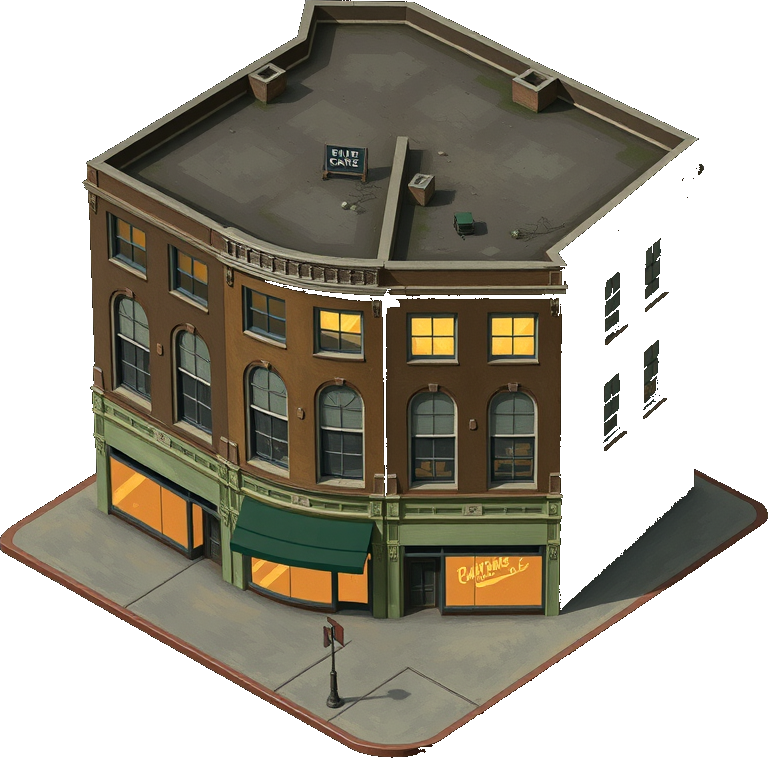
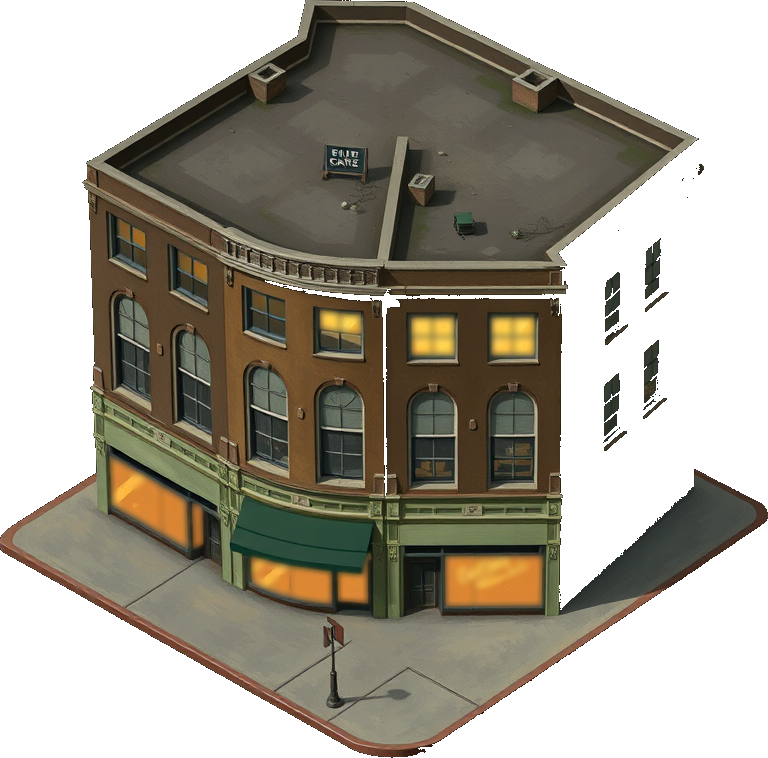
Paint the junctions, and withdraw a claim about the signs
Crossings and stop lines at every junction, laid from the block grid so
they line up with the kerbs by construction.

The last iteration said the garbled sign the user named was gone. True
of the Monarch's marquee, false of the city: the six fillers and four
corner blocks carry their own invented signage, repeated across sixty
slots, so there was more wrong text than before. The aimed filter has
been run over those ten now.

That is still not the whole truth. The Monarch's rooftop billboard reads
CIICATC and the filter cannot touch it — pale paint on dark green falls
under every threshold that stops it eating windows. Two claims about
this being fixed have been wrong, so the honest statement is that the
signage problem is not solved, only the loudest examples softened.

A suspected caching bug was chased and disproved: the served file hashes
byte-identical to disk. What was on screen was another building's sign.

Claude-Session: https://claude.ai/code/session_012sa7BWcwEVZMW3XoMqHfGF

diff --git a/src/CityIso.tsx b/src/CityIso.tsx
@@ -2,7 +2,7 @@ import {useEffect, useRef} from 'react';
 import {Application, Assets, Container, Graphics, Sprite, Text, Texture, TextStyle} from 'pixi.js';
 import {Viewport} from 'pixi-viewport';
 import type {Snapshot} from './types';
-import {addressSlot, along, blockFor, BLOCK, bounds, carriageways, distance, dressing, faces, fillerShape, grid, island, kerbside, lampPosts, middle, mix, nightness, PAVE, plot, project, ROAD, size, terrace, TILE, walk, wires} from './iso';
+import {addressSlot, along, blockFor, BLOCK, bounds, carriageways, distance, dressing, faces, fillerShape, grid, island, kerbside, lampPosts, markings, middle, mix, nightness, PAVE, plot, project, ROAD, size, terrace, TILE, walk, wires} from './iso';
 import type {Cell, Vec} from './iso';
 import cutouts from '../public/art/iso/isometric.json';
 import type {Spotlight} from './CityStreet';
@@ -436,7 +436,44 @@ export function CityIso({state, selected, onSelect, onEnter, spotlight}: {
       }
     }
     paint.stroke({width: 1.3, color: 0x6d6a52, alpha: .35});
-    layer.addChild(paint);
+
+    // The paint at the junctions: the bars of a crossing and the line a car
+    // waits behind. Laid from the same grid as the kerbs, so it lines up by
+    // construction rather than by being nudged into place.
+    const road_paint = new Graphics();
+    for (const mark of markings(size)) {
+      const across = {x: -mark.along.y, y: mark.along.x};   // square to the street
+      if (mark.kind === 'crossing') {
+        const bars = 5;
+        for (let i = 0; i < bars; i++) {
+          const t = (i + .5) / bars - .5;
+          const centre = {
+            x: mark.at.x + across.x * t * mark.width * .82,
+            y: mark.at.y + across.y * t * mark.width * .82,
+          };
+          const half = .085, long = .30;
+          const corners = [
+            {x: centre.x - across.x * half - mark.along.x * long, y: centre.y - across.y * half - mark.along.y * long},
+            {x: centre.x + across.x * half - mark.along.x * long, y: centre.y + across.y * half - mark.along.y * long},
+            {x: centre.x + across.x * half + mark.along.x * long, y: centre.y + across.y * half + mark.along.y * long},
+            {x: centre.x - across.x * half + mark.along.x * long, y: centre.y - across.y * half + mark.along.y * long},
+          ].map(project);
+          road_paint.poly(corners.flatMap(c => [c.x, c.y]));
+        }
+      } else {
+        const half = mark.width * .44, thick = .05;
+        const corners = [
+          {x: mark.at.x - across.x * half - mark.along.x * thick, y: mark.at.y - across.y * half - mark.along.y * thick},
+          {x: mark.at.x + across.x * half - mark.along.x * thick, y: mark.at.y + across.y * half - mark.along.y * thick},
+          {x: mark.at.x + across.x * half + mark.along.x * thick, y: mark.at.y + across.y * half + mark.along.y * thick},
+          {x: mark.at.x - across.x * half + mark.along.x * thick, y: mark.at.y - across.y * half + mark.along.y * thick},
+        ].map(project);
+        road_paint.poly(corners.flatMap(c => [c.x, c.y]));
+      }
+    }
+    // Worn paint, not fresh: it has been on the road a while.
+    road_paint.fill({color: mix(0xd8d2b8, 0x9a957f, .35 + dark * .3), alpha: .34});
+    layer.addChild(paint, road_paint);
 
     // The lamps, at every corner of every block, and the pools they throw.
     const glow = new Graphics();

diff --git a/src/iso.ts b/src/iso.ts
@@ -514,3 +514,39 @@ export function terrace(cell: Cell, slots = 3): Slot[] {
 // Which slot an address takes: the middle of the near row, so the building the
 // player came to see faces the street and is never hidden behind another.
 export const addressSlot = (slots = 3) => Math.floor(slots / 2);
+
+// ---------------------------------------------------------------------------
+// What is painted on the road.
+//
+// An empty carriageway with a dashed centre line is a diagram of a road. What
+// makes it a street is the paint at the junctions: the bars of a crossing, the
+// stop line a car waits behind. All of it is laid on the grid, so it lines up
+// with the kerbs by construction rather than by being nudged.
+
+export type Marking = {kind: 'crossing' | 'stop'; at: Vec; along: Vec; width: number};
+
+// Crossings go across the carriageway on the approach to a junction, and stop
+// lines sit just behind them. Both are placed from the block grid, so every
+// junction in the city is marked the same way.
+export function markings({cols, rows}: {cols: number; rows: number}): Marking[] {
+  const out: Marking[] = [];
+  const back = ROAD * .62;                    // how far from the centre of the junction
+  for (let col = 0; col <= cols; col++) {
+    for (let row = 0; row <= rows; row++) {
+      const x = col * BLOCK, y = row * BLOCK;
+      // Only where two carriageways actually meet.
+      const hasEast = col < cols, hasSouth = row < rows;
+      if (hasSouth) {
+        // Crossing the north-south street, on the south side of the junction.
+        out.push({kind: 'crossing', at: {x, y: y + back}, along: {x: 1, y: 0}, width: ROAD});
+        out.push({kind: 'stop', at: {x, y: y + back + .16}, along: {x: 1, y: 0}, width: ROAD});
+      }
+      if (hasEast) {
+        // And the east-west street, on the east side.
+        out.push({kind: 'crossing', at: {x: x + back, y}, along: {x: 0, y: 1}, width: ROAD});
+        out.push({kind: 'stop', at: {x: x + back + .16, y}, along: {x: 0, y: 1}, width: ROAD});
+      }
+    }
+  }
+  return out;
+}

diff --git a/docs/DEVELOPMENT.md b/docs/DEVELOPMENT.md
@@ -1531,3 +1531,11 @@
 - Where that leaves the signage: the one sign the user actually named is gone. Smaller lettering survives on both buildings, less saturated than the filter's threshold.
 - Verified in a browser: a dense city of terraced blocks with corner buildings at the ends of rows, the Monarch's marquee now an indistinct lit panel. No console errors. `mise run verify` passes, `cmd/apicheck` clean, 100 runs unchanged.
 - **What this iteration says about the tools.** Every one of these failures is the same failure: FLUX.1-schnell at four steps is a fast, low-fidelity tier that cannot follow structural instructions or refrain from writing. The city was built with it because it produced twelve coherent buildings in eight minutes. Finishing the city wants FLUX-dev at twenty or thirty steps — mflux supports it as a built-in model — which is a **9 to 17GB download onto a disk that is 89% full**, and that is the user's call rather than a decision to take quietly in a loop.
+
+## Road markings, and a claim that had to be withdrawn
+- Crossings and stop lines at every junction, laid from the block grid so they line up with the kerbs by construction. Worn paint rather than fresh — it has been on the road a while.
+- **A correction.** The previous iteration reported that the garbled sign the user actually named was gone. That was true of the Monarch's *marquee* and false of the city: the six filler buildings and four corner blocks carry their own invented signage — *AIUT HEFTER*, *TUALE*, *Tut Calle* — and those repeat across sixty-odd slots, so the city had **more** wrong text on it than before the fillers existed, not less. The aimed filter has now been run over all ten of those, which takes the worst of it out and leaves the brickwork and lit windows intact.
+- **And a second correction, because the first fix was still not the whole truth.** The Monarch's *rooftop billboard* still reads CIICATC. The filter finds saturated warm lettering; that sign is painted pale on dark green and falls under every threshold that keeps it from eating windows. Two claims about this being fixed have now been wrong, so: **the signage problem is not solved.** What is true is that the loudest examples are softened.
+- **A false alarm chased properly.** The Monarch appeared to still show CIICATCE in the browser after the art was fixed, which looked like a caching bug — regenerated art never reaching a returning player would be a real fault. Fetched the file from the running server and hashed it: **790,812 bytes, sha256 b0343ff4d62fc942**, byte-identical to disk and to `dist`. No caching bug. What was on screen was a different building's sign.
+- The honest read on all of this: filtering is the wrong tool for a model that cannot spell. It removes legible wrongness where the paint happens to be saturated, and cannot touch anything else without softening the windows that make these buildings worth looking at. This wants regeneration at higher fidelity, which is the FLUX-dev download already recorded as the user's call.
+- Verified in a browser: crossings and stop lines visible at the junctions, terraced blocks, no console errors. `mise run verify` passes, `cmd/apicheck` clean.
